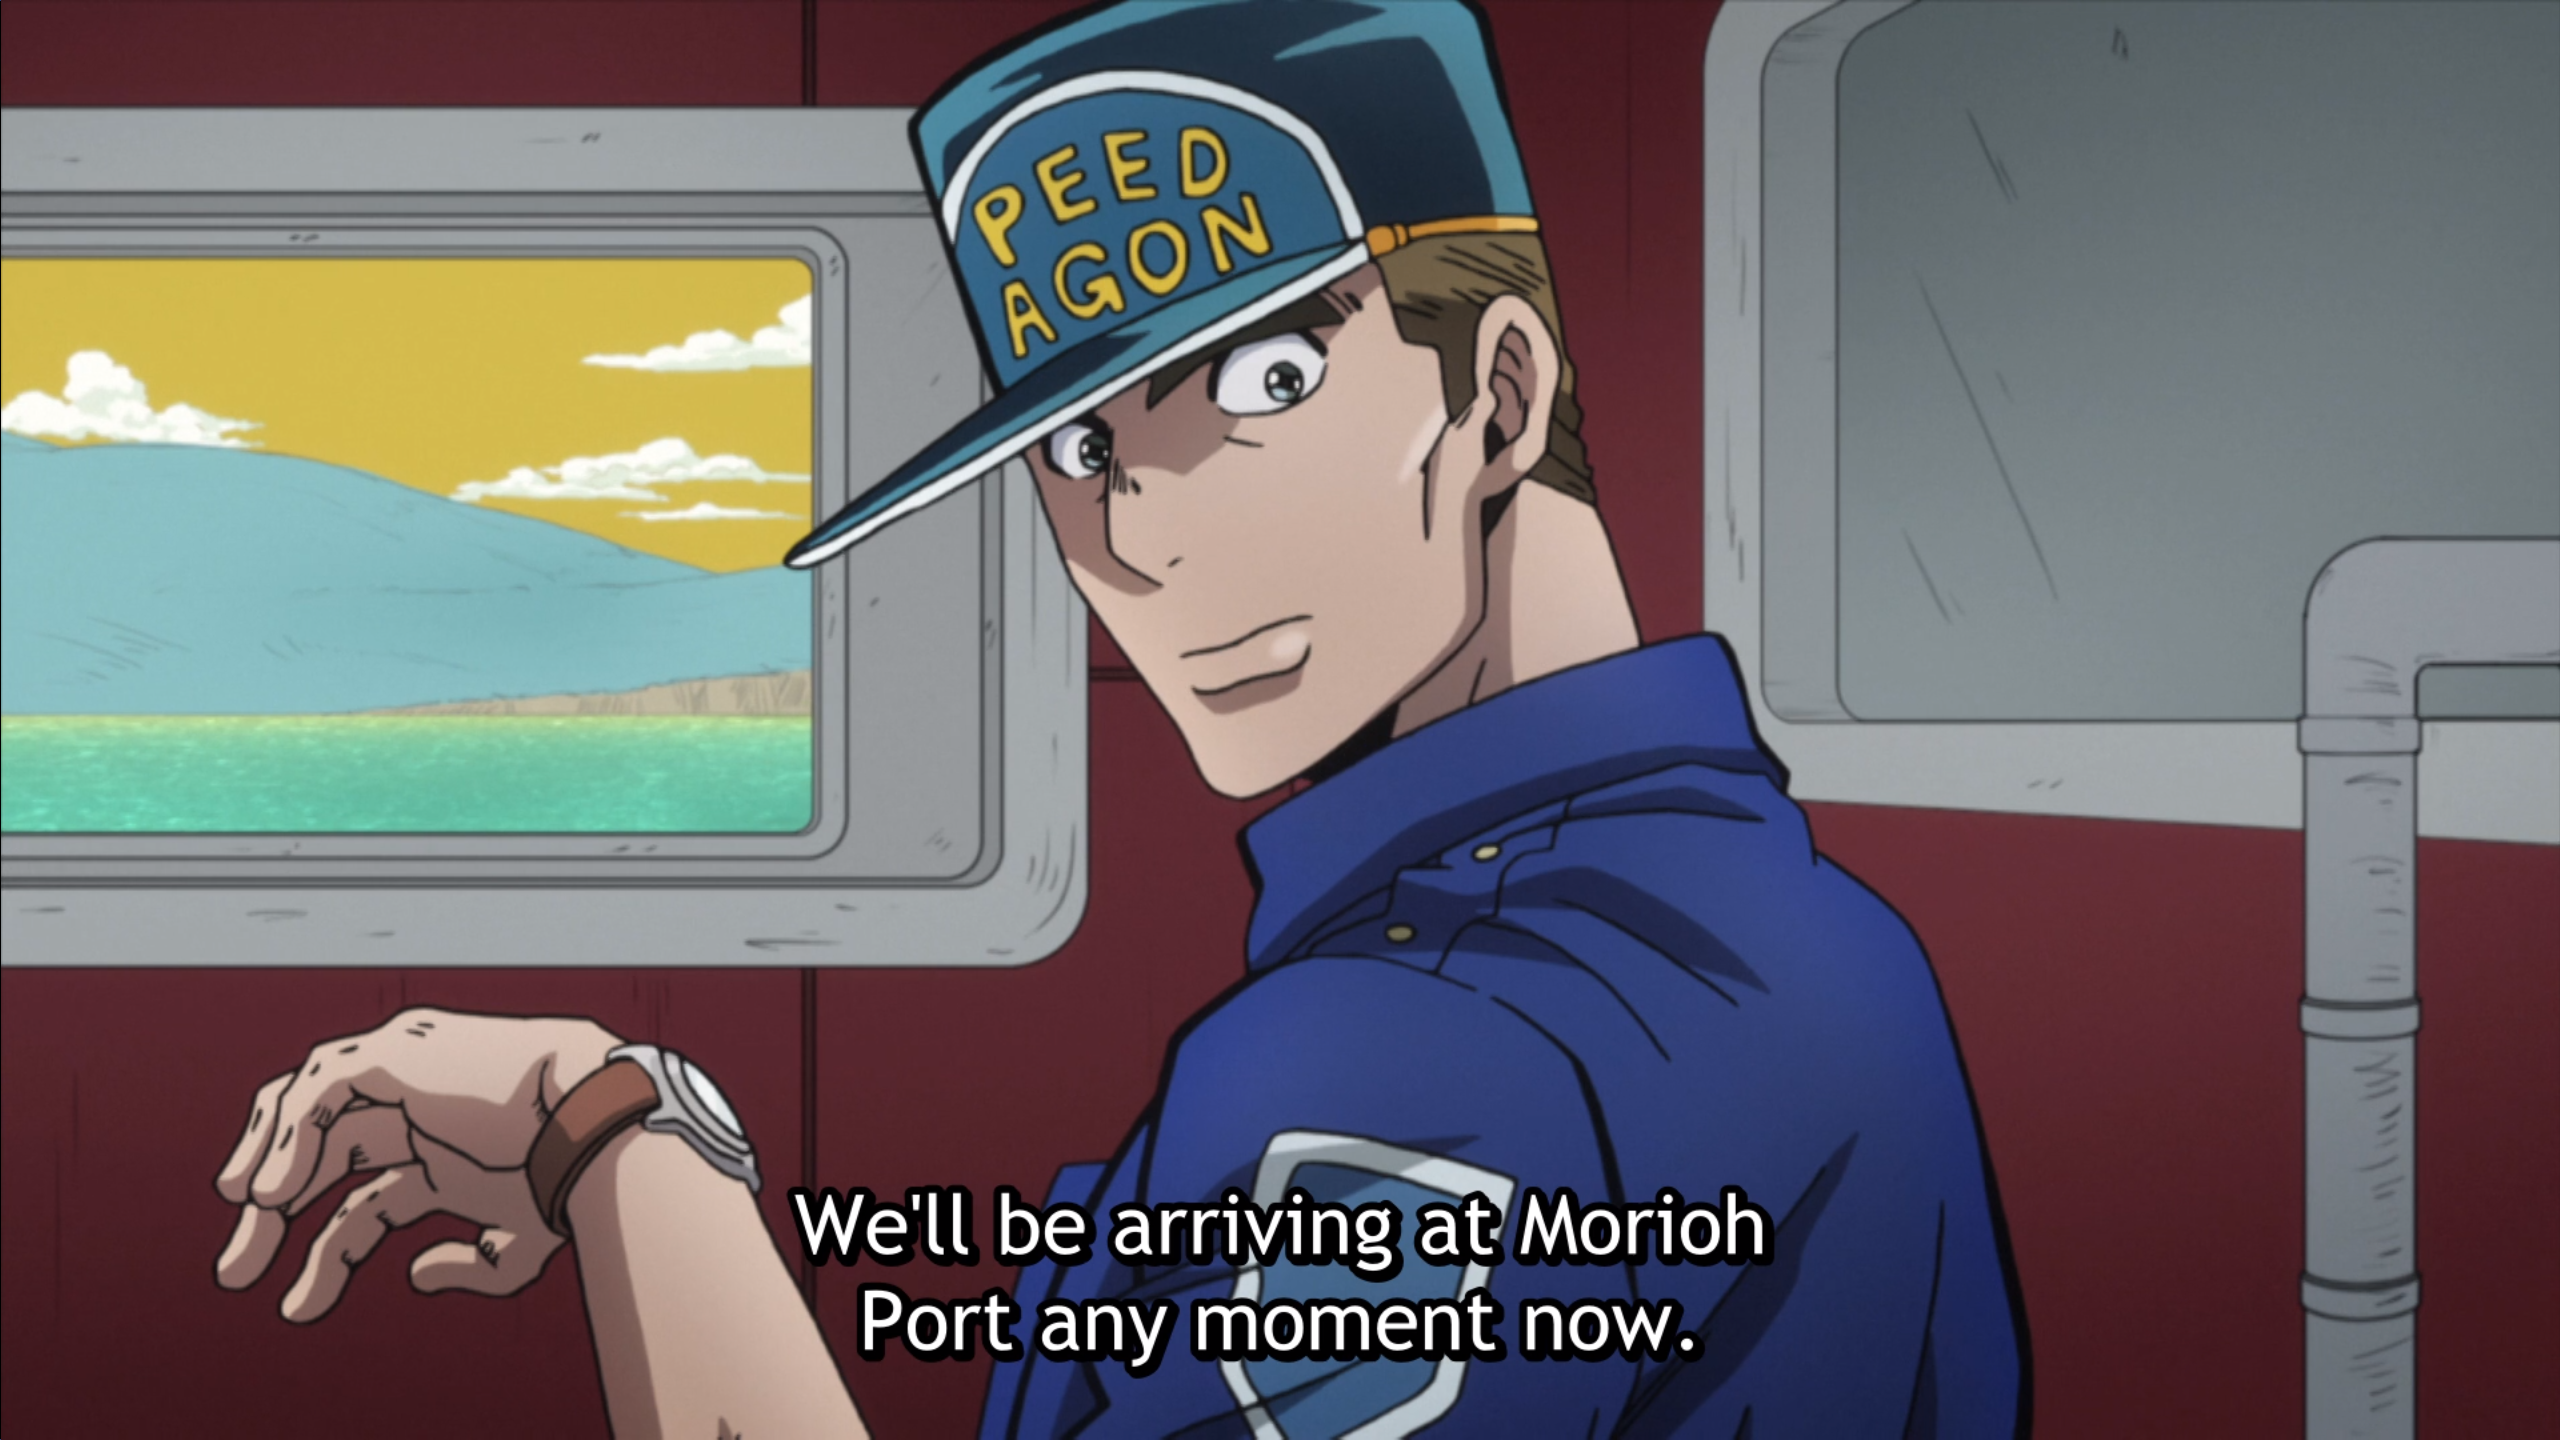
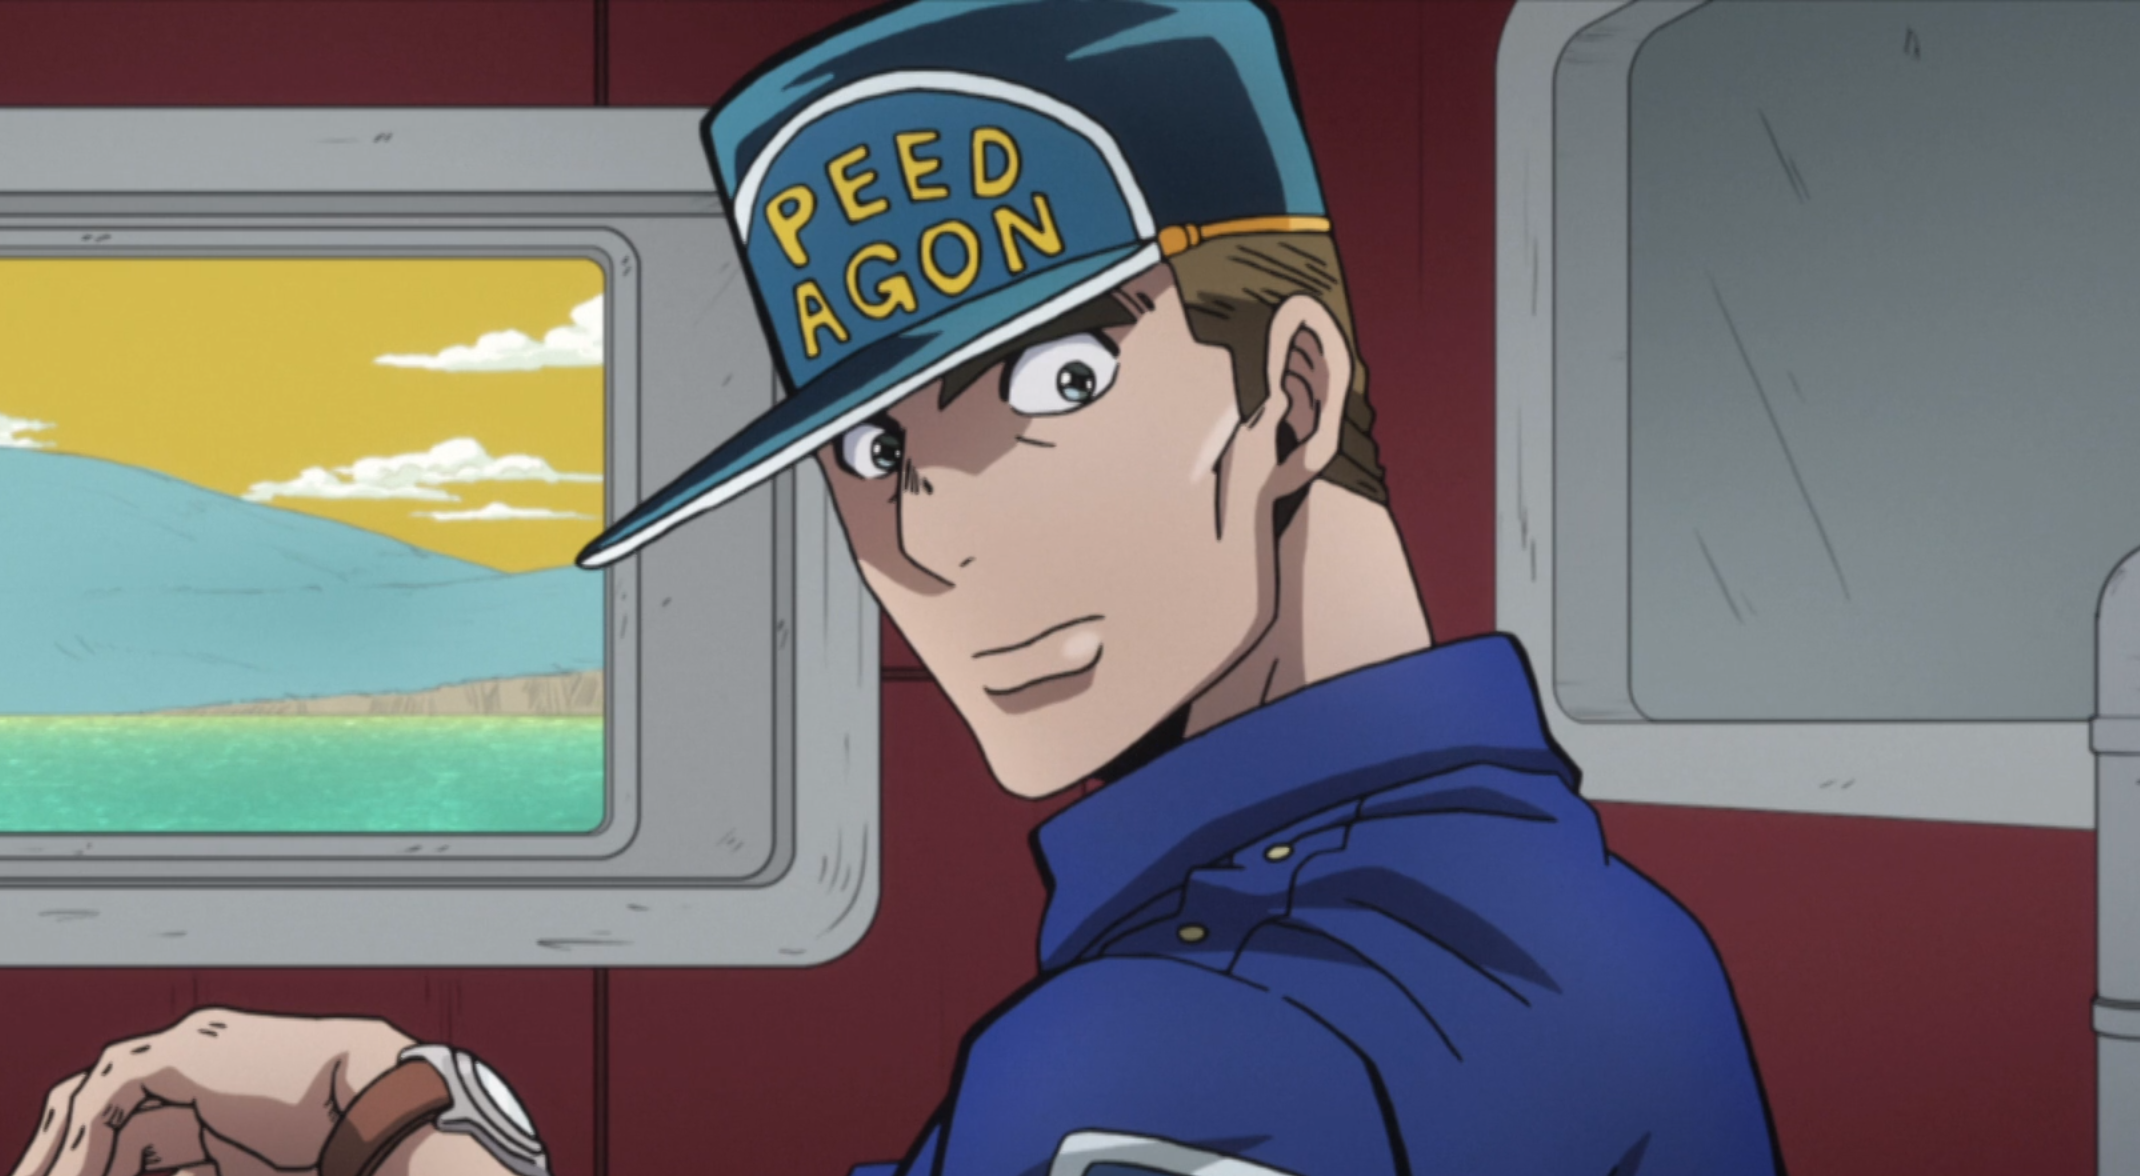
asdfsd

diff --git a/i_am_rich/lib/main.dart b/i_am_rich/lib/main.dart
@@ -1,20 +1,18 @@
 import 'package:flutter/material.dart';
 
 void main() {
-  runApp(
-    MaterialApp(
-      home: Scaffold(
-        appBar: AppBar(
-          title: Text('I Am Rich'),
-          backgroundColor: Colors.blueGrey[900],
-        ),
-        backgroundColor: Colors.blue,
-        body: Center(
-          child: Image(
-              image: NetworkImage(
-                  'https://images.pexels.com/photos/414612/pexels-photo-414612.jpeg?auto=compress&cs=tinysrgb&dpr=1&w=500')),
+  runApp(MaterialApp(
+    home: Scaffold(
+      appBar: AppBar(
+        title: Text('I Am Rich'),
+        backgroundColor: Colors.blueGrey[900],
+      ),
+      backgroundColor: Colors.blue,
+      body: Center(
+        child: Image(
+          image: AssetImage('images/speedwagon.png'),
         ),
       ),
     ),
-  );
+  ));
 }
